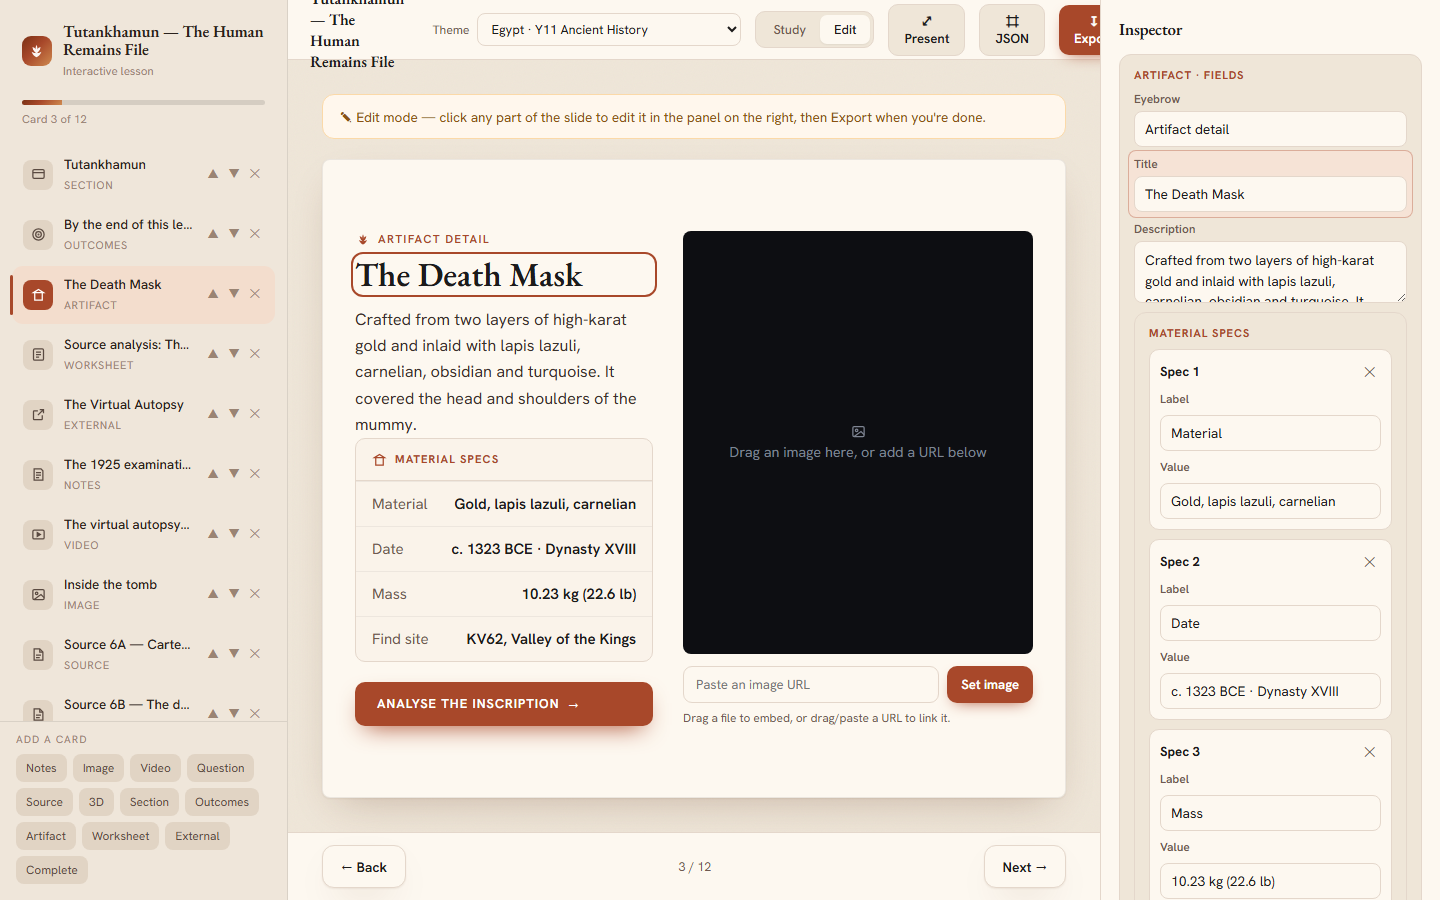
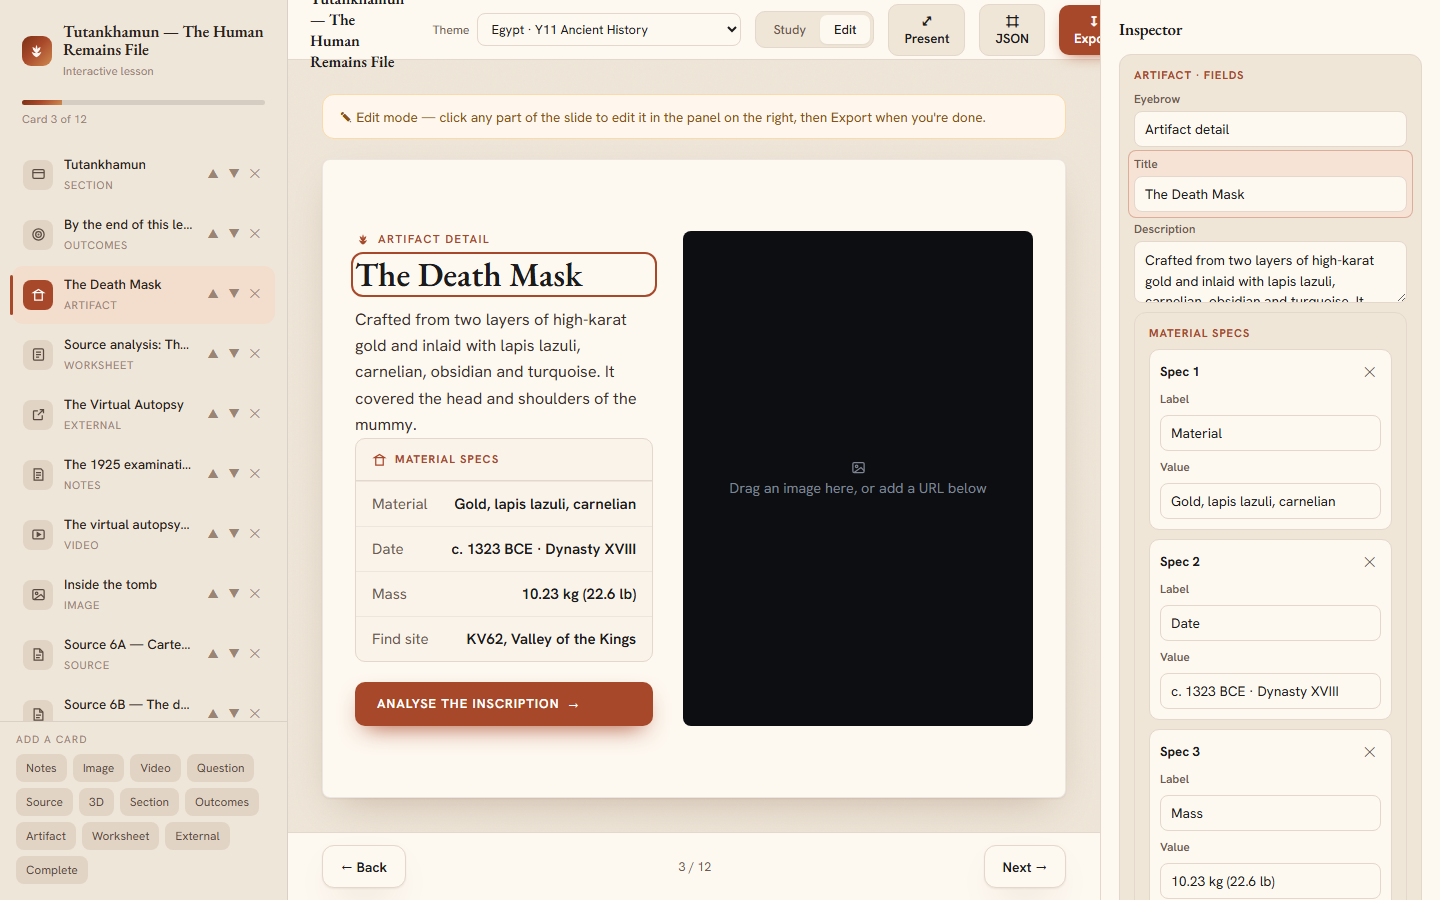
fix(inspector): clean canvas truly inert; restore hotspot editing; crash-safety
Addresses the code-review findings on the Edit-mode inspector:

- #1 Clean canvas: the old inline-edit chrome (.cover-tools / .setrow / .hint /
  .dropnote) was still revealed by body.edit rules on the study-rendered canvas.
  Now hidden within #slide in edit — the canvas matches Study.
- #2 Live Study controls: data-advance / data-launch / data-goto / .minput sat
  outside [data-zone] and stayed clickable (clicking "Restart" navigated). The
  canvas is now `body.edit #slide *{pointer-events:none}` with only [data-zone]
  (and draggable .poi) re-enabled, so nothing but zone selection fires.
- #3 Cover text zones were nested inside the media well and made inert by the
  old `[data-zone] *` rule. With the new model, nested zones are selectable.
- #4 Hotspot editing was lost (poiEditor/data-poidrag are mode-gated, absent in
  the study-forced render). Restored: poiEditor (add/remove/kind/title/text) now
  renders in the panel's media view (reused), and tagZones re-adds data-poidrag
  so dots stay drag-repositionable on the canvas.
- #5 renderCanvas wraps the build in try/finally so a throw can't leave `mode`
  stuck at 'study'.
- #6 Added a "Clear media" control in the panel (cover bg etc. were only
  clearable via the now-hidden .cover-tools).

Verified (Playwright): chrome hidden; Study buttons inert (real click on Restart
no longer navigates); cover title selectable; hotspot add + drag work; Clear
[…]

Changed region(s): [[0.4688, 0.7156, 0.7188, 0.8089], [0.5, 0.4978, 0.6875, 0.56]]

diff --git a/lesson-studio.html b/lesson-studio.html
@@ -311,10 +311,13 @@ body.edit .qadd{display:inline-flex;margin-top:16px;font-size:.82rem;font-weight
 body.edit .editnote{display:flex;align-items:center;gap:9px;background:#fff7ed;border:1px solid #fbd9a8;
   color:#8a5212;border-radius:12px;padding:12px 16px;font-size:.85rem;margin-bottom:20px;}
 /* ===== Edit-mode zone selection (canvas) ===== */
-body.edit #slide [data-zone]{cursor:pointer;border-radius:8px;}
-body.edit #slide [data-zone] *{pointer-events:none;}      /* clicks select the zone, not its contents */
+body.edit #slide *{pointer-events:none;}                   /* clean preview: nothing on the canvas is live... */
+body.edit #slide [data-zone]{pointer-events:auto;cursor:pointer;border-radius:8px;}   /* ...except zones (click selects the most specific one, incl. nested) */
+body.edit #slide .poi[data-poidrag]{pointer-events:auto;cursor:grab;}                 /* ...and hotspots stay draggable */
 body.edit #slide [data-zone]:hover{box-shadow:0 0 0 1px color-mix(in srgb,var(--accent) 40%,transparent);}
 body.edit #slide [data-zone].zsel{outline:2px solid var(--accent);outline-offset:2px;}
+/* keep the old inline-edit chrome OFF the clean canvas — editing lives in the inspector now */
+body.edit #slide .cover-tools,body.edit #slide .setrow,body.edit #slide .hint,body.edit #slide .dropnote{display:none;}
 /* ===== Edit-mode inspector (right panel) ===== */
 .inspector{display:none;}
 body.edit .inspector{display:flex;flex-direction:column;width:340px;flex:0 0 340px;height:100vh;overflow-y:auto;
@@ -956,9 +959,10 @@ function showPoi(t,title,info){
 function renderSlide(){ renderCanvas(); renderInspector(); }
 function renderCanvas(){
   const realEdit=(mode==='edit'), _savedMode=mode;
-  if(realEdit) mode='study';   // Edit canvas renders Study-identical (no contenteditable, no inline editors, true WYSIWYG)
   const s=LESSON.slides[cur], i=cur; let h='';
   const present=document.body.classList.contains('present');
+  if(realEdit) mode='study';   // Edit canvas renders Study-identical (no contenteditable, no inline editors, true WYSIWYG)
+  try {
   if(s.type==='cover'){
     const bg=s.bg||'';
     h=`<div class="card cover cover2">
@@ -1173,8 +1177,8 @@ function renderCanvas(){
       ${mode==='edit'?`<div class="syllabus"><div class="syl-h">${ICON.book} NSW syllabus links — shown to students in a popup</div>${sylInline}<button class="qadd" data-addsyl="${i}">＋ add a syllabus link</button></div>`:''}
     </div>`;
   }
+  } finally { if(realEdit) mode=_savedMode; }   // always restore mode, even if a branch throws
   $('#slide').innerHTML=h;
-  if(realEdit) mode=_savedMode;          // restore before tagging/wiring
   if(realEdit) tagZones(s,i);            // Edit: add data-zone hooks + media drop target + selection outline
   wire();
   // A1: per-slide layout — "scroll" allows long-form vertical scrolling; "fit"
@@ -1216,6 +1220,7 @@ function tagZones(s,i){
   else if(s.type==='external') well=slide.querySelector('.ex-img');
   else well=slide.querySelector('.srcframe')||slide.querySelector('.srctext');   // source/model3d/outcomes/worksheet
   if(well){ const mi=mediaInfo(i,s); well.dataset.zone='media'; if(mi.kind!=='text') well.dataset.drop=mi.path; }
+  if(s.media&&s.media.kind==='image') slide.querySelectorAll('.srcframe .poi').forEach((d,k)=>{ d.dataset.poidrag=i+':'+k; });   // keep hotspots drag-repositionable on the canvas
   if(selZone) slide.querySelectorAll('[data-zone="'+selZone+'"]').forEach(el=>el.classList.add('zsel'));
 }
 // ---- inspector field builders ----
@@ -1227,9 +1232,12 @@ function mediaEditor(i,s){
   const mi=mediaInfo(i,s);
   if(mi.kind==='text') return inA('Source text',mi.path,getP(LESSON,mi.path));
   const lab=mi.kind==='model'||mi.kind==='model3d'?'Model URL (.glb / .gltf)':'Image URL';
-  let extra='';
-  if((s.media&&s.media.kind==='image')) extra=`<div class="muted small">Hotspot editing for this image is unchanged from before — coming to the panel in a follow-up.</div>`;
-  return inT(lab,mi.path,getP(LESSON,mi.path))+`<div class="muted small">Tip: you can also drag an image straight onto the well on the canvas.</div>`+extra;
+  const val=getP(LESSON,mi.path)||'';
+  let h=inT(lab,mi.path,val)+`<div class="muted small">Tip: you can also drag an image straight onto the well on the canvas.</div>`;
+  if(val) h+=`<button class="ibtn-x" data-clearmedia="${mi.path}">Clear media</button>`;
+  // Source-image hotspots: reuse the existing editor (add/remove/kind/title/text); drag-reposition stays on the canvas.
+  if(s.media&&s.media.kind==='image') h+=poiEditor(i,s.media);
+  return h;
 }
 function qGroup(i,s,sel){
   const items=s.items||[];
@@ -1320,6 +1328,11 @@ function wireInspector(){
     const def={blocks:{h:'New heading',bd:'Note text.'},specs:{k:'Label',v:'Value'},fields:{kind:'text',n:'New field',hint:''},syllabus:{code:'',text:'New link'}}[key];
     (s[key]=s[key]||[]).push(JSON.parse(JSON.stringify(def))); renderSlide(); });
   ins.querySelectorAll('[data-delrep]').forEach(b=>b.onclick=()=>{ const[key,i,j]=b.dataset.delrep.split(':'); LESSON.slides[+i][key].splice(+j,1); selZone=null; renderSlide(); });
+  ins.querySelectorAll('[data-clearmedia]').forEach(b=>b.onclick=()=>{ setP(LESSON,b.dataset.clearmedia,''); renderSlide(); });
+  // hotspot editor (reused poiEditor controls, scoped to the panel)
+  const apoi=ins.querySelector('[data-addpoi]'); if(apoi) apoi.onclick=()=>{ const si=apoi.dataset.addpoi; const m=LESSON.slides[si].media; (m.pois=m.pois||[]).push({x:50,y:50,kind:'tooltip',title:'New hotspot',info:'',url:''}); renderSlide(); };
+  ins.querySelectorAll('[data-delpoi]').forEach(b=>b.onclick=()=>{ const[si,ki]=b.dataset.delpoi.split(':'); LESSON.slides[si].media.pois.splice(ki,1); renderSlide(); });
+  ins.querySelectorAll('[data-poikind]').forEach(sel=>sel.onchange=()=>{ const[si,ki]=sel.dataset.poikind.split(':'); LESSON.slides[si].media.pois[ki].kind=sel.value; renderSlide(); });
 }
 
 /* ---------- wire interactions ---------- */

diff --git a/CHANGELOG.md b/CHANGELOG.md
@@ -16,9 +16,12 @@ All notable changes to **Lesson Studio** are recorded here. Format follows
   panel; media zones show a URL field (drag-onto-the-well still works on the canvas). A
   per-slide **Layout** segmented control (Fit | Scroll → `slide.layout`) and editable
   **lesson meta** (subject / year / unit / outcomes codes → `LESSON.meta`, additive) live
-  in persistent Slide / Lesson sections. **Edit-mode UI layer only — STUDY, PRESENT,
-  EXPORT and the LESSON data model are unchanged.** Sidebar (drag-reorder / ✕ / ▲▼)
-  unchanged. _Follow-up:_ source-image hotspot editing stays as-is for now (noted in panel).
+  in persistent Slide / Lesson sections. The canvas is fully inert except zone selection
+  (and draggable hotspots) — no inline-edit chrome, no live Study controls. Source-image
+  **hotspot editing** (add / remove / kind / title / text) lives in the panel's media view
+  (reused `poiEditor`); dots stay **drag-repositionable on the canvas**. **Edit-mode UI
+  layer only — STUDY, PRESENT, EXPORT and the LESSON data model are unchanged.** Sidebar
+  (drag-reorder / ✕ / ▲▼) unchanged.
 - **Drag-to-reorder slides (Edit mode)** — slide-list items in the sidebar are now
   draggable (native HTML5 DnD, no new dependency); dropping rewrites `LESSON.slides` into
   the new order, with a drop indicator line between items. The ✕/▲▼ buttons are kept. The
